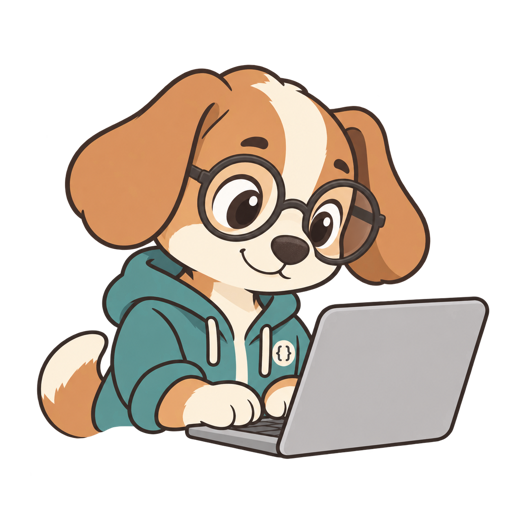
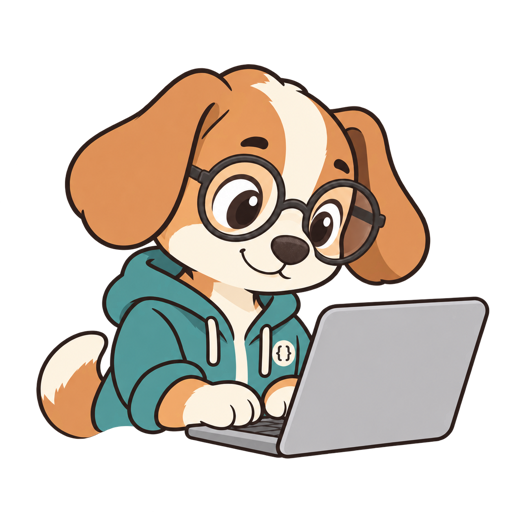
docs(readme): 마스코트 원본 교체와 다크 모드 버전 제거
- 바탕화면 devdog.png(16:29 저장본)로 mascot.png 교체
- 일러스트 버전은 다크 배경에서도 식별 가능하므로 mascot-dark.png와 밝은 배경 처리 제거
- 비교 이미지 2개 재생성

diff --git a/docs/assets/before-after.html b/docs/assets/before-after.html
@@ -34,7 +34,6 @@ README 상단 대비 이미지의 원본. 수정 후 다음 명령으로 PNG를 
   .brand { font: 600 16px "SF Mono", Menlo, monospace; color: var(--muted); letter-spacing: .02em; }
   .title { display: flex; align-items: center; gap: 16px; }
   .title img { width: 84px; height: 84px; }
-  .dark .title img { background: #f6f8fa; border-radius: 14px; padding: 4px; }
   h1 { font-size: 34px; font-weight: 800; letter-spacing: -.01em; margin-top: 4px; }
   .score { font-size: 20px; font-weight: 700; white-space: nowrap; }
   .score .bad { color: var(--bad-edge); } .score .good { color: var(--good-edge); }

diff --git a/README.md b/README.md
@@ -1,8 +1,5 @@
 <p align="center">
-  <picture>
-    <source media="(prefers-color-scheme: dark)" srcset="docs/assets/mascot-dark.png">
-    <img src="docs/assets/mascot.png" width="220" alt="DevDog 마스코트. 안경을 쓰고 청록색 후드티를 입은 채 노트북으로 작업하는 강아지">
-  </picture>
+  <img src="docs/assets/mascot.png" width="220" alt="DevDog 마스코트. 안경을 쓰고 청록색 후드티를 입은 채 노트북으로 작업하는 강아지">
 </p>
 
 <h1 align="center">DevDog</h1>

diff --git a/CHANGELOG.md b/CHANGELOG.md
@@ -4,7 +4,7 @@
 
 - PR 검사 추가: `gh pr create`·`gh pr edit` 실행 전 제목(`pr-title`), AI 도구 서명(`pr-signature`), 이모지(`pr-emoji`), 본문 Markdown 규칙 검사
 - README에 Claude Code `attribution` 설정으로 커밋·PR 서명을 끄는 방법 추가
-- 마스코트를 코드·설계 용어로 채운 타이포그래피 이미지로 교체, 다크 모드용 밝은 배경 버전(`mascot-dark.png`) 추가
+- 마스코트를 일러스트 이미지로 교체
 
 ## 0.3.0 (2026-09-24)
 
